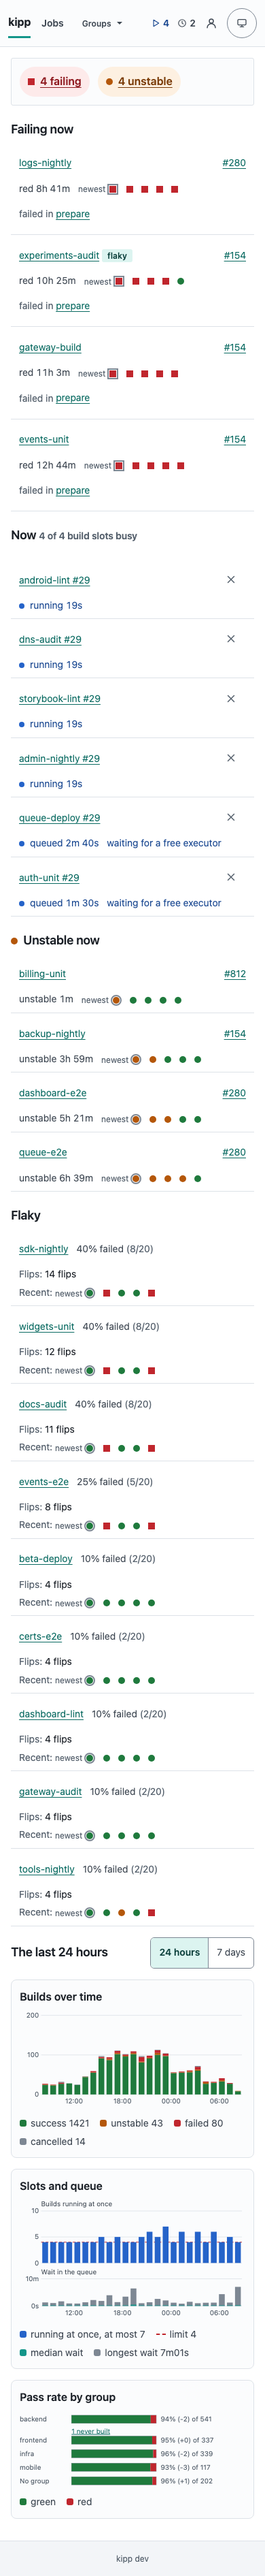
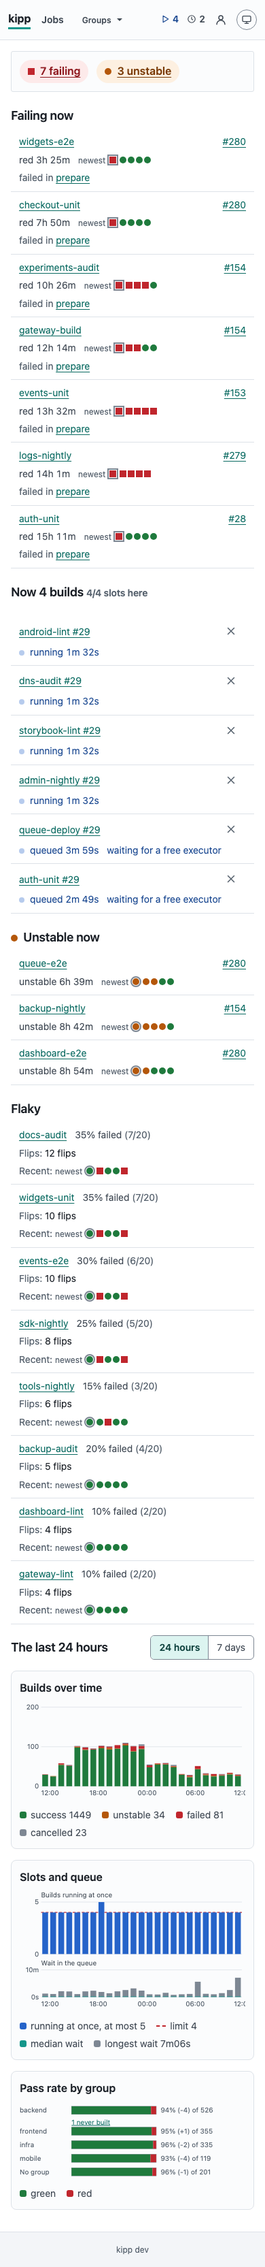
Queue heading counts builds first and slots here second
"Now" read "5 of 8 build slots busy" over 11 running rows. It now reads
"Now 11 builds" and, muted and to an admin alone, "5/8 slots here".

The build count is the number of running builds the user may see, the
same list the header's running count is. The slot count is the server's
own limit: a build holds a slot only while something of it runs.

A stage that runs on a runner or an engine says "on <place>" ("on another
machine" to a user who is not an admin), and one that waits for a place
says "waiting for runner (label mac)" in place of the long line.

diff --git a/internal/web/templates/layout.html b/internal/web/templates/layout.html
@@ -82,14 +82,14 @@
 </html>
 {{define "navmetrics"}}<a class="navlink" href="/metrics"{{if eq . "/metrics"}} aria-current="page"{{end}}>Metrics</a>{{end}}
 {{define "queue"}}<section id="queue" class="stack"{{if not .Nested}} hx-get="/queue" hx-select="#queue" hx-target="this" hx-swap="outerHTML" hx-trigger="kipp-changed from:body"{{end}}>
-{{with .Queue}}{{if or .Running .Queued}}<h2>Now{{if .Executors}} <span class="sub">{{.Busy}} of {{.Executors}} build slots busy</span>{{end}}</h2>
+{{with .Queue}}{{if or .Running .Queued}}<h2>Now{{if .Running}} {{len .Running}} {{if eq (len .Running) 1}}build{{else}}builds{{end}}{{end}}{{if .Executors}} <span class="sub">{{.Busy}}/{{.Executors}} slots here</span>{{end}}</h2>
 <div class="scroll">
 <table class="queue stacked two-line">
 <thead><tr><th>Build</th><th>Status</th><th>For</th><th><span class="sr-only">Cancel</span></th></tr></thead>
 <tbody>
 {{range .Running}}<tr>
 <td class="lead" data-label="Build"><a class="link" href="{{buildPath .Build}}">{{.Build.Job}} #{{.Build.Number}}</a></td>
-<td class="lead" data-label="Status"><span class="status running">running</span>{{with .Stages}} <span class="sub stages">{{if gt (len .) 1}}stages{{else}}stage{{end}}: {{join .}}</span>{{end}}{{range $stage, $why := .Waiting}}<br><span class="sub">{{$stage}}: {{$why}}</span>{{end}}</td>
+<td class="lead" data-label="Status"><span class="status running">running</span>{{with localStages .}} <span class="sub stages">{{if gt (len .) 1}}stages{{else}}stage{{end}}: {{join .}}</span>{{end}}{{range placeLines .}}<br><span class="sub">{{.}}</span>{{end}}</td>
 <td class="lead" data-label="For">{{template "since" (elapsed .Build.StartedAt "running")}}</td>
 <td class="lead" data-label="Cancel">{{if .CanCancel}}{{template "queue-cancel" (cancelOf .Build $.Next)}}{{end}}</td>
 </tr>

diff --git a/internal/web/runners_test.go b/internal/web/runners_test.go
@@ -135,7 +135,7 @@ func TestTheQueueSaysWhatAStageWaitsForToBePlaced(t *testing.T) {
 	}}}
 	e.site.render(rec, httptest.NewRequest(http.MethodGet, "/queue", nil), "queue", http.StatusOK, page{Title: "Queue", Data: queueData{Queue: q, Full: true}, Queue: q})
 	eq(t, "status", rec.Code, http.StatusOK)
-	contains(t, rec.Body.String(), `<span class="sub">s: waiting for a runner with labels [linux]</span>`)
+	contains(t, rec.Body.String(), `<span class="sub">s: waiting for runner (label linux)</span>`)
 }
 
 func TestTheBuildPageSaysHowManyTriesAStageTookOnlyWhenItWasMoreThanOne(t *testing.T) {
@@ -152,4 +152,45 @@ func TestTheBuildPageSaysHowManyTriesAStageTookOnlyWhenItWasMoreThanOne(t *testi
 	if strings.Count(page, " tries</span>") != 1 {
 		t.Fatalf("a stage that ran once says its tries:\n%s", page)
 	}
+}
+
+func renderQueue(t *testing.T, e *env, q *api.QueueView) string {
+	t.Helper()
+	rec := httptest.NewRecorder()
+	e.site.render(rec, httptest.NewRequest(http.MethodGet, "/queue", nil), "queue", http.StatusOK, page{Title: "Queue", Data: queueData{Queue: q, Full: true}, Queue: q})
+	eq(t, "status", rec.Code, http.StatusOK)
+	return rec.Body.String()
+}
+
+func runningBuilds(n int) []api.RunningView {
+	var out []api.RunningView
+	for i := 1; i <= n; i++ {
+		out = append(out, api.RunningView{Build: &store.Build{ID: int64(i), Job: "smoke", Number: i, Status: store.Running}, Stages: []string{"s"}})
+	}
+	return out
+}
+
+func TestTheQueueHeadingCountsBuildsFirstAndSlotsHereOnlyForAnAdmin(t *testing.T) {
+	e := site(t)
+	contains(t, renderQueue(t, e, &api.QueueView{Running: runningBuilds(3), Executors: 8, Busy: 2}),
+		`<h2>Now 3 builds <span class="sub">2/8 slots here</span></h2>`)
+	body := renderQueue(t, e, &api.QueueView{Running: runningBuilds(1)})
+	contains(t, body, `<h2>Now 1 build</h2>`)
+	lacks(t, body, "slots")
+}
+
+func TestTheQueueSaysWhereAStageRunsAndWhatItWaitsForInFewWords(t *testing.T) {
+	e := site(t)
+	r := runningBuilds(1)[0]
+	r.Stages = []string{"a", "b", "c", "d"}
+	r.Waiting = map[string]string{"b": "waiting for a runner with labels [mac]", "c": "waiting for a runner with labels [linux, arm64]"}
+	r.Remote = map[string]string{"a": "mac"}
+	body := renderQueue(t, e, &api.QueueView{Running: []api.RunningView{r}})
+	contains(t, body, `<span class="sub stages">stage: d</span>`,
+		`<span class="sub">a: on mac</span>`,
+		`<span class="sub">b: waiting for runner (label mac)</span>`,
+		`<span class="sub">c: waiting for runner (labels linux, arm64)</span>`)
+	lacks(t, body, "with labels")
+	r.Remote = map[string]string{"a": ""}
+	contains(t, renderQueue(t, e, &api.QueueView{Running: []api.RunningView{r}}), `<span class="sub">a: on another machine</span>`)
 }

diff --git a/internal/web/pages.go b/internal/web/pages.go
@@ -390,6 +390,64 @@ func pastIn(zone *time.Location, now func() time.Time) func(v any, word string) 
 	return momentIn("past", zone, now)
 }
 
+// localStages are the stages of r that run on the server: the others wait
+// to be placed or run elsewhere, and placeLines say that for them.
+func localStages(r api.RunningView) []string {
+	var out []string
+	for _, s := range r.Stages {
+		_, waits := r.Waiting[s]
+		_, away := r.Remote[s]
+		if !waits && !away {
+			out = append(out, s)
+		}
+	}
+	return out
+}
+
+// placeLines say, in few words, what each stage of r that is not on the
+// server waits for or runs on, in the order of the stages.
+func placeLines(r api.RunningView) []string {
+	var out []string
+	for _, s := range r.Stages {
+		if why, waits := r.Waiting[s]; waits {
+			out = append(out, s+": "+placeWait(why))
+		} else if where, away := r.Remote[s]; away {
+			out = append(out, s+": "+onWhere(where))
+		}
+	}
+	return out
+}
+
+// onWhere is where a stage runs, when it is not on the server; the place
+// is "" to a user who may not be told its name.
+func onWhere(place string) string {
+	if place == "" {
+		return "on another machine"
+	}
+	return "on " + place
+}
+
+// placeWait is what a stage waits for to be placed, as the queue says it:
+// "waiting for a runner with labels [mac]" is "waiting for runner (label
+// mac)". A line it does not know stays as it is.
+func placeWait(line string) string {
+	for _, kind := range []string{"runner", "engine"} {
+		for _, art := range []string{"a ", "an "} {
+			rest, ok := strings.CutPrefix(line, "waiting for "+art+kind+" with labels [")
+			if !ok || !strings.HasSuffix(rest, "]") {
+				continue
+			}
+			labels := strings.TrimSuffix(rest, "]")
+			word := "label"
+			if strings.Contains(labels, ",") {
+				word = "labels"
+			}
+			return "waiting for " + kind + " (" + word + " " + labels + ")"
+		}
+	}
+	return line
+}
+
 // join is a list of names as a page shows it.
 func join(names []string) string { return strings.Join(names, ", ") }
 

diff --git a/internal/web/web_test.go b/internal/web/web_test.go
@@ -2219,7 +2219,7 @@ func TestTheQueuePageSaysWhatRunsAndWhyTheRestWaits(t *testing.T) {
 	e.queued(t, 1, 1)
 	_, page := get(t, c, e.srv.URL+"/queue")
 	contains(t, page, `<section id="queue" class="stack" hx-get="/queue" hx-select="#queue" hx-target="this" hx-swap="outerHTML" hx-trigger="kipp-changed from:body">`,
-		`1 of 4 build slots busy`,
+		`Now 1 build <span class="sub">1/4 slots here</span>`,
 		`<a class="link" href="/jobs/hold/1">hold #1</a>`,
 		`<span class="status running">running</span> <span class="sub stages">stage: s</span>`,
 		`<span class="tl">running </span><time class="elapsed" datetime="`,
@@ -2232,6 +2232,8 @@ func TestTheQueuePageSaysWhatRunsAndWhyTheRestWaits(t *testing.T) {
 		`<span class="qb qb-running"><svg class="icon" viewBox="0 0 24 24" aria-hidden="true">`,
 		`</svg>1</span><span class="qb qb-queued"><svg class="icon" viewBox="0 0 24 24" aria-hidden="true">`,
 		`</svg>1</span></a>`)
+	// the heading counts the builds that run, as the header's first count does
+	contains(t, page, `<h2>Now 1 build <span class="sub">`)
 	lacks(t, page, `1 running, 1 queued</a>`)
 
 	// bob may view wait and nothing of hold: the lock is named, its holder is not.
@@ -2242,7 +2244,7 @@ func TestTheQueuePageSaysWhatRunsAndWhyTheRestWaits(t *testing.T) {
 	_, page = get(t, e.login(t, "bob"), e.srv.URL+"/queue")
 	contains(t, page, `waiting for lock <code>k</code>, held by another build`,
 		`aria-label="0 running, 1 queued"`, `<span class="qb qb-queued">`)
-	lacks(t, page, `qb-running`, "hold", `/cancel"`, "executors")
+	lacks(t, page, `qb-running`, "hold", `/cancel"`, "executors", "slots", "<h2>Now 0")
 
 	must(t, e.d.Cancel(ctx, hold, "test"))
 	e.queued(t, 0, 0)

diff --git a/internal/web/web.go b/internal/web/web.go
@@ -112,7 +112,7 @@ func parsePages(assets map[string]asset, zone *time.Location) map[string]*templa
 		}
 		return "/static/" + name + "?v=" + a.version(), nil
 	}
-	funcs := template.FuncMap{"static": static, "dag": dagOf, "ago": ago, "clock": clockIn(zone), "when": whenIn(zone, time.Now), "zoned": zoned, "elapsed": elapsedIn(zone, time.Now), "since": sinceIn(zone, time.Now), "past": pastIn(zone, time.Now), "join": join, "cancelOf": cancelOf, "exitText": exitText, "took": took, "millis": millis, "lines": lines, "buildPath": buildPath, "whyRow": whyRow, "commitShort": commitShort, "crumb": crumb,
+	funcs := template.FuncMap{"static": static, "dag": dagOf, "ago": ago, "clock": clockIn(zone), "when": whenIn(zone, time.Now), "zoned": zoned, "elapsed": elapsedIn(zone, time.Now), "since": sinceIn(zone, time.Now), "past": pastIn(zone, time.Now), "join": join, "localStages": localStages, "placeLines": placeLines, "cancelOf": cancelOf, "exitText": exitText, "took": took, "millis": millis, "lines": lines, "buildPath": buildPath, "whyRow": whyRow, "commitShort": commitShort, "crumb": crumb,
 		"userPath": userPath, "secretPath": secretPath, "lasts": lasts, "expired": expired, "tokenList": tokenList, "appList": appList, "appScopes": appScopes, "tokenForm": tokenForm, "secretName": webhook.SecretName, "placePath": placePath, "bytes": byteSize, "scopePath": scopePath, "scopeField": scopeField, "metricsPath": metricsPath, "plural": plural, "percent": percent, "nameRule": nameRuleOf,
 		"removePath": removePath, "partLabel": partLabel, "compactTook": compactTook, "rows": rowsText}
 	layout := template.Must(template.New("layout.html").Funcs(funcs).ParseFS(templateFS, "templates/layout.html"))

diff --git a/internal/dispatch/queue.go b/internal/dispatch/queue.go
@@ -44,6 +44,9 @@ type RunningBuild struct {
 	Build   *store.Build
 	Stages  []string
 	Waiting map[string]string
+	// Remote is where each running stage that runs off the server runs: a
+	// runner's name, or an engine's container.
+	Remote map[string]string
 }
 
 // QueuedBuild is a build that waits, and why. Blocker is the build it waits
@@ -87,15 +90,9 @@ func (d *Dispatcher) Queue(ctx context.Context) (*Queue, error) {
 			queued = append(queued, b)
 			continue
 		}
-		stages, err := d.st.Stages(ctx, b.ID)
+		r, err := d.runningBuild(ctx, b)
 		if err != nil {
 			return nil, err
-		}
-		r := RunningBuild{Build: b, Stages: []string{}}
-		for _, s := range stages {
-			if s.Status == store.StageRunning {
-				r.Stages = append(r.Stages, s.Name)
-			}
 		}
 		q.Running = append(q.Running, r)
 	}
@@ -113,6 +110,29 @@ func (d *Dispatcher) Queue(ctx context.Context) (*Queue, error) {
 		}
 	}
 	return q, nil
+}
+
+// runningBuild is b with the stages it runs now, and where those that are
+// not on the server run.
+func (d *Dispatcher) runningBuild(ctx context.Context, b *store.Build) (RunningBuild, error) {
+	r := RunningBuild{Build: b, Stages: []string{}}
+	stages, err := d.st.Stages(ctx, b.ID)
+	if err != nil {
+		return r, err
+	}
+	for _, s := range stages {
+		if s.Status != store.StageRunning {
+			continue
+		}
+		r.Stages = append(r.Stages, s.Name)
+		if s.RanOn != "" && s.RanOn != "local" {
+			if r.Remote == nil {
+				r.Remote = map[string]string{}
+			}
+			r.Remote[s.Name] = s.RanOn
+		}
+	}
+	return r, nil
 }
 
 // whyWaitingLocked applies mayStartLocked's rules and the executor limit

diff --git a/internal/api/queue.go b/internal/api/queue.go
@@ -42,6 +42,9 @@ type RunningView struct {
 	// line its log has for an admin, and only that it waits for anyone else,
 	// to whom the names and the state of the places are not told.
 	Waiting map[string]string
+	// Remote is where each stage that runs off the server runs: the name of
+	// the runner or the container for an admin, and "" for anyone else.
+	Remote map[string]string
 }
 
 // QueuedView is a queued build and why it waits. Blocker is nil when the
@@ -67,7 +70,7 @@ func (s *Service) Queue(ctx context.Context, u *store.User) (*QueueView, error) 
 	v := &QueueView{Executors: q.Executors, Busy: q.Busy, Running: []RunningView{}, Queued: []QueuedView{}}
 	for _, r := range q.Running {
 		if p.view[r.Build.Job] {
-			v.Running = append(v.Running, RunningView{Build: r.Build, Stages: r.Stages, CanCancel: p.cancel[r.Build.Job], Waiting: r.Waiting})
+			v.Running = append(v.Running, RunningView{Build: r.Build, Stages: r.Stages, CanCancel: p.cancel[r.Build.Job], Waiting: r.Waiting, Remote: r.Remote})
 		}
 	}
 	for _, w := range q.Queued {
@@ -94,6 +97,13 @@ const WaitPlace = "waiting for a place to run"
 func hideCapacity(v *QueueView) {
 	v.Executors, v.Busy = 0, 0
 	for i, r := range v.Running {
+		if r.Remote != nil {
+			hidden := map[string]string{}
+			for stage := range r.Remote {
+				hidden[stage] = ""
+			}
+			v.Running[i].Remote = hidden
+		}
 		if r.Waiting != nil {
 			hidden := map[string]string{}
 			for stage := range r.Waiting {

diff --git a/internal/dispatch/remote_test.go b/internal/dispatch/remote_test.go
@@ -162,6 +162,14 @@ func TestAStageThatRunnersCarryButCannotTakeWaitsAndSaysWhy(t *testing.T) {
 		return err == nil && len(q.Running) == 1 && len(q.Running[0].Waiting) == 1 &&
 			(q.Running[0].Waiting["one"] == "waiting for a runner with labels [linux]" || q.Running[0].Waiting["two"] == "waiting for a runner with labels [linux]")
 	})
+	eventually(t, "the stage that holds the runner says where it runs", func() bool {
+		q, err := h.d.Queue(context.Background())
+		if err != nil || len(q.Running) != 1 {
+			return false
+		}
+		r := q.Running[0]
+		return len(r.Remote) == 1 && (r.Remote["one"] == "box" || r.Remote["two"] == "box")
+	})
 	if err := os.WriteFile(ready, nil, 0o600); err != nil {
 		t.Fatal(err)
 	}

diff --git a/internal/api/queue_test.go b/internal/api/queue_test.go
@@ -202,3 +202,14 @@ func TestTheQueuesEventStreamKeepsItselfAlive(t *testing.T) {
 		t.Fatal("a quiet stream said nothing")
 	}
 }
+
+// Where a stage runs names a runner or a container, which only an admin is
+// told: anyone else learns that it is off the server.
+func TestToAllButAnAdminNoRunnerNameIsToldOfAStageThatRunsOnOne(t *testing.T) {
+	v := &QueueView{Running: []RunningView{{Remote: map[string]string{"s": "mac"}}}}
+	hideCapacity(v)
+	got, ok := v.Running[0].Remote["s"]
+	if !ok || got != "" {
+		t.Fatalf("remote = %v", v.Running[0].Remote)
+	}
+}

diff --git a/CHANGELOG.md b/CHANGELOG.md
@@ -136,6 +136,12 @@ Changed:
 
 Fixed:
 
+- The queue's heading ("Now") counts the builds that run first and says the
+  server's slots second and briefly (`Now 11 builds`, `5/8 slots here`, the
+  slots to an admin alone). A stage that runs on a runner or an engine says
+  `on <place>` (`on another machine` to a user who is not an admin), and one
+  that waits for a place says `waiting for runner (label mac)`, in place of
+  the long line that wrapped. The count is that of the header's queue link.
 - On a narrow screen a build row's "failed in" line takes a line of its own
   under the build, status and duration, and the group, slash and name in a
   page's heading share one baseline.
